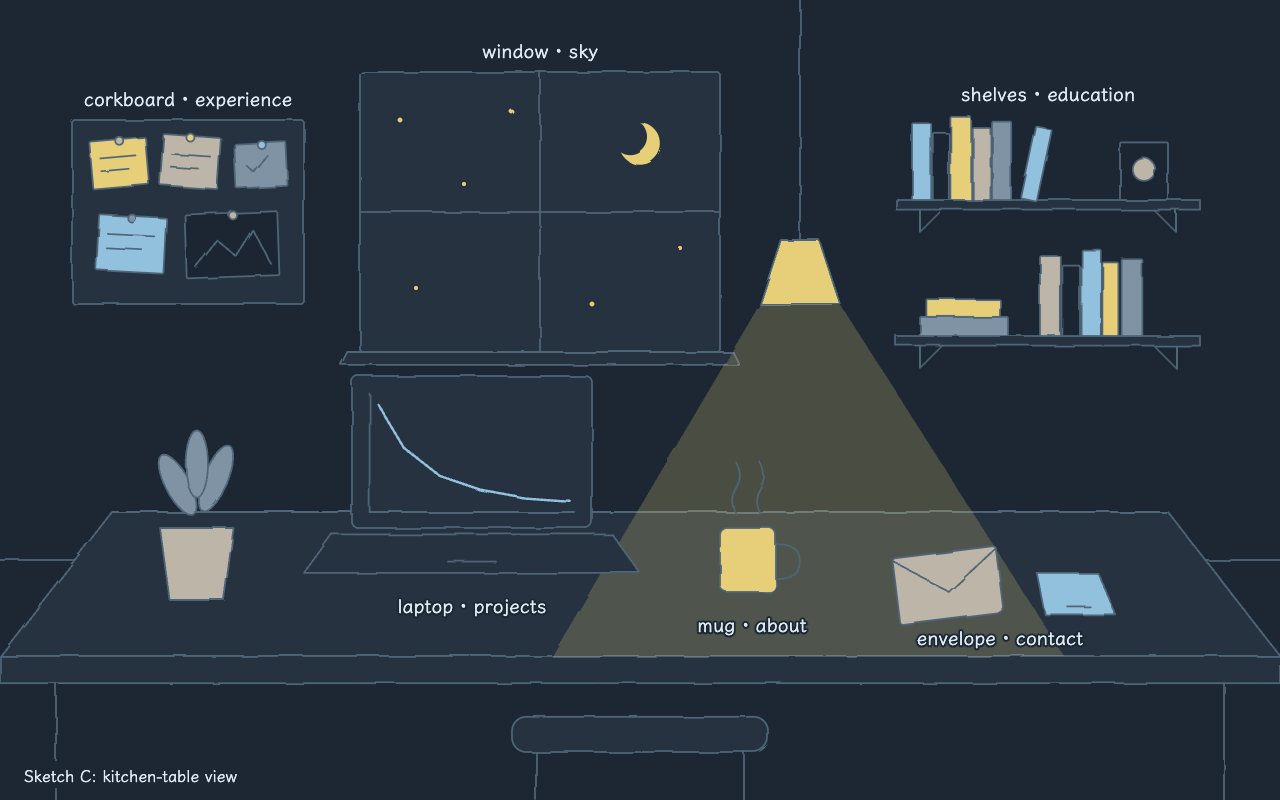
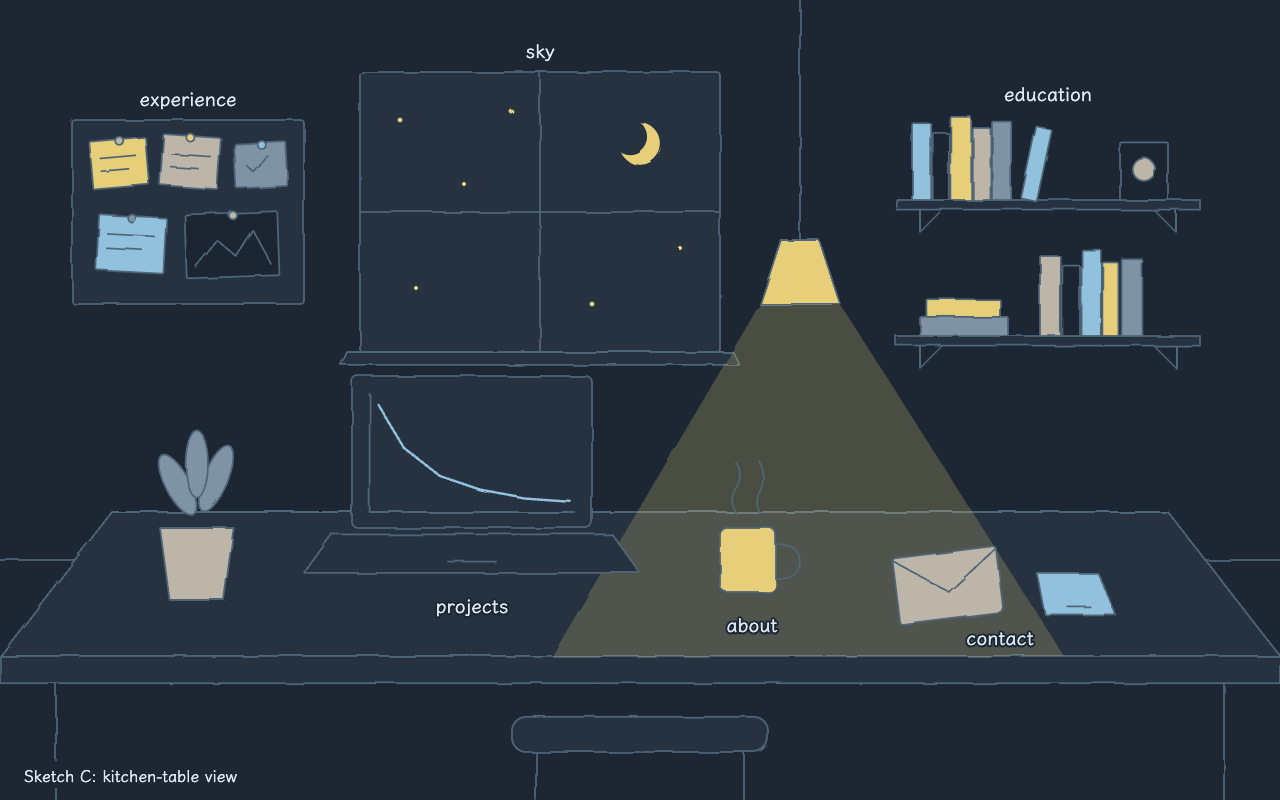
Labels name only the destination, not the object

diff --git a/sketches/b-corner-shelf.html b/sketches/b-corner-shelf.html
@@ -124,12 +124,12 @@
   </g>
 
   <g id="labels">
-    <text class="lab" x="315" y="140">window · sky</text>
-    <text class="lab" x="895" y="186">corkboard · experience</text>
-    <text class="lab" x="1380" y="120">bookshelf · education</text>
-    <text class="lab" x="672" y="800">envelope · contact</text>
-    <text class="lab" x="912" y="800">laptop · projects</text>
-    <text class="lab" x="1112" y="800">mug · about</text>
+    <text class="lab" x="315" y="140">sky</text>
+    <text class="lab" x="895" y="186">experience</text>
+    <text class="lab" x="1380" y="120">education</text>
+    <text class="lab" x="672" y="800">contact</text>
+    <text class="lab" x="912" y="800">projects</text>
+    <text class="lab" x="1112" y="800">about</text>
   </g>
 </svg>
 <p class="caption">Sketch B: corner with shelf</p>

diff --git a/sketches/c-kitchen-table.html b/sketches/c-kitchen-table.html
@@ -115,12 +115,12 @@
   </g>
 
   <g id="labels">
-    <text class="lab" x="235" y="132">corkboard · experience</text>
-    <text class="lab" x="675" y="72">window · sky</text>
-    <text class="lab" x="1310" y="126">shelves · education</text>
-    <text class="lab" x="590" y="766">laptop · projects</text>
-    <text class="lab" x="940" y="790">mug · about</text>
-    <text class="lab" x="1250" y="806">envelope · contact</text>
+    <text class="lab" x="235" y="132">experience</text>
+    <text class="lab" x="675" y="72">sky</text>
+    <text class="lab" x="1310" y="126">education</text>
+    <text class="lab" x="590" y="766">projects</text>
+    <text class="lab" x="940" y="790">about</text>
+    <text class="lab" x="1250" y="806">contact</text>
   </g>
 </svg>
 <p class="caption">Sketch C: kitchen-table view</p>

diff --git a/sketches/a-desk-by-window.html b/sketches/a-desk-by-window.html
@@ -122,12 +122,12 @@
   </g>
 
   <g id="labels">
-    <text class="lab" x="800" y="92">window · sky</text>
-    <text class="lab" x="260" y="446">corkboard · experience</text>
-    <text class="lab" x="1405" y="150">bookshelf · education</text>
-    <text class="lab" x="560" y="792">envelope · contact</text>
-    <text class="lab" x="800" y="792">laptop · projects</text>
-    <text class="lab" x="1040" y="792">mug · about</text>
+    <text class="lab" x="800" y="92">sky</text>
+    <text class="lab" x="260" y="446">experience</text>
+    <text class="lab" x="1405" y="150">education</text>
+    <text class="lab" x="560" y="792">contact</text>
+    <text class="lab" x="800" y="792">projects</text>
+    <text class="lab" x="1040" y="792">about</text>
   </g>
 </svg>
 <p class="caption">Sketch A: desk by window</p>

diff --git a/DESIGN.md b/DESIGN.md
@@ -66,7 +66,8 @@ Check WCAG AA for any new color. Pastels never carry text.
   layered, and animated.
 - Every interactive object is a real `<button>` with an accessible name
   ("Open projects (laptop)"), a visible focus ring that follows the object's
-  outline, and a small handwritten label on hover/focus.
+  outline, and a small handwritten label on hover/focus. The label names only
+  the destination ("projects", "about"), never the object.
 - All art is original. The third-party illustration that inspired the style
   is not recreated, traced, or imitated.
 
